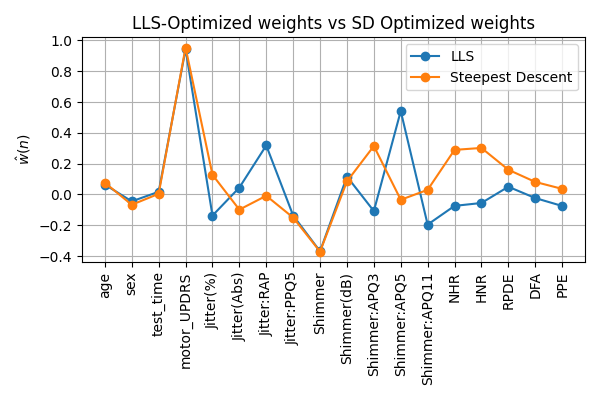
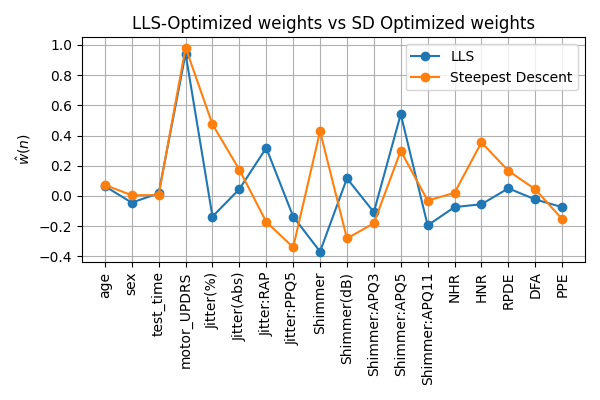
update

Changed region(s): [[0.06, 0.09, 0.96, 0.66]]

diff --git a/LAB01/parkinson.py b/LAB01/parkinson.py
@@ -1,81 +1,130 @@
-
+'''
+Federico Volponi s309709
+LABORATORIO 1 - Linear Regression on Parkinson's disease data
+17/11/2022
+'''
 import sub.regression as myreg
 import numpy as np
 import matplotlib.pyplot as plt
 import pandas as pd
 
+# Simple function to perform the average
 def average(l):
     return sum(l)/len(l)
 
-n_different_seed = 20
-x = pd.read_csv("C:\Coding\ICT_for_health\LAB01\parkinsons_updrs.csv")
+##########################################################################################
 
-#Analysis of dataframe
-x.describe().T
-x.info()
-subj = pd.unique(x['subject#']) #unique values of patient ID
-print("\nThe number of distinct patients in the dataset is ", len(subj))
+if __name__ == "__main__":
+    
+    ####################### Analysis of dataframe #########################################
+    x = pd.read_csv("C:\Coding\ICT_for_health\LAB01\parkinsons_updrs.csv")  # read the dataset
+    x.describe().T
+    print("\n")
+    x.info()
+    subj = pd.unique(x['subject#']) #unique values of patient ID
+    print("\nThe number of distinct patients in the dataset is ", len(subj))
 
-X = pd.DataFrame()
-for k in subj:
-    xk = x[x['subject#'] == k]  #data of user k
-    xk1 = xk.copy()
-    xk1.test_time = xk1.test_time.astype(int)   #remove decimal values to consider just the day and not the hour
-    xk1['g'] = xk1['test_time'] # add a new feature g with test_time values
-    v = xk1.groupby('g').mean() # group by the g features(test_time) to have averaged values per day 
-    X = pd.concat([X,v], axis=0, ignore_index=True) #Concatenate the k-patients by row ignoring index
+    X = pd.DataFrame()
+    for k in subj:
+        xk = x[x['subject#'] == k]  #data of user k
+        xk1 = xk.copy()
+        xk1.test_time = xk1.test_time.astype(int)   #remove decimal values to consider just the day and not the hour
+        xk1['g'] = xk1['test_time'] # add a new feature g with test_time values
+        v = xk1.groupby('g').mean() # group by the g features(test_time) to have averaged values per day 
+        X = pd.concat([X,v], axis=0, ignore_index=True) #Concatenate the k-patients by row ignoring index
 
-features = list(x.columns)
-print("\nThe dataset shape after the mean is: ", X.shape)
-print("\nThe features of the dataset are ", len(features))
-print("\n", features)
-print("\n\n")
-Np, Nc = X.shape
-Ntr = int(Np*0.5)
-Nte = Np - Ntr
-# Measure and show the covariance matrix
-Xnorm = (X - X.mean())/X.std() #normalize dataset
-c = Xnorm.cov() #measure the covariance
-plt.figure()
-plt.matshow(np.abs(c.values), fignum = 0)
-plt.xticks(np.arange(len(features)), features, rotation = 90)
-plt.yticks(np.arange(len(features)), features, rotation = 0)
-plt.colorbar()
-plt.title("Correlation coefficients of the features")
-plt.tight_layout()
-plt.savefig("C:\Coding\ICT_for_health\LAB01\charts\corr_coeff_features.png")
-#plt.show()
+    features = list(x.columns)
+    print("\nThe dataset shape after the mean is: ", X.shape)
+    print("\nThe features of the dataset are ", len(features))
+    print("\n", features)
+    print("\n\n")
+    Np, Nc = X.shape
+    Ntr = int(Np*0.5)
+    Nte = Np - Ntr
+    # Measure and show the covariance matrix
+    Xnorm = (X - X.mean())/X.std() #normalize dataset
+    c = Xnorm.cov() #measure the covariance
+    plt.figure()
+    plt.matshow(np.abs(c.values), fignum = 0)
+    plt.xticks(np.arange(len(features)), features, rotation = 90)
+    plt.yticks(np.arange(len(features)), features, rotation = 0)
+    plt.colorbar()
+    plt.title("Correlation coefficients of the features")
+    plt.tight_layout()
+    plt.savefig("C:\Coding\ICT_for_health\LAB01\charts\corr_coeff_features.png")
+    #plt.show()
 
-plt.figure()
-c.total_UPDRS.plot()
-plt.grid()
-plt.xticks(np.arange(len(features)), features, rotation = 90)
-plt.title("Correlation coefficient among total UPDRS and the other features")
-plt.tight_layout()
-plt.savefig("C:\Coding\ICT_for_health\LAB01\charts\corr_coeffTotal.png")
-#plt.show()
+    plt.figure()
+    c.total_UPDRS.plot()
+    plt.grid()
+    plt.xticks(np.arange(len(features)), features, rotation = 90)
+    plt.title("Correlation coefficient among total UPDRS and the other features")
+    plt.tight_layout()
+    plt.savefig("C:\Coding\ICT_for_health\LAB01\charts\corr_coeffTotal.png")
+    #plt.show()
 
-#Shuffle the data
-""" E_tr_max = []
-E_tr_min = []
-E_tr_mu = []
-E_tr_sig = []
-E_tr_MSE = []
-R2_tr = []
-c_tr = []
-E_te_max = []
-E_te_min = []
-E_te_mu = []
-E_te_sig = []
-E_te_MSE = []
-R2_te = []
-c_te = []
-algorithm = "LR"
-for i in range(n_different_seed):
-    seed = np.random.seed()
-    Xsh = X.sample(frac=1, replace=False, random_state=seed, axis=0, ignore_index=True)
+    #Shuffle the data
 
+    n_different_seed = 20
+    results_LLS = []
+    results_SD = []
+    results_LR = []
+    for i in range(n_different_seed):
+        seed = np.random.seed()
+        Xsh = X.sample(frac=1, replace=False, random_state=seed, axis=0, ignore_index=True)
+
+        # Generate training and test matrices
+        X_tr = Xsh[0:Ntr]   #dataframe of the training data
+        mm = X_tr.mean()
+        ss = X_tr.std()
+        my = mm['total_UPDRS']  #mean of total_UPDRS
+        sy = ss['total_UPDRS']  #st. dev. of total UPDRS
+
+        # Generate the normalized training and test datasets, remove unwanted regressors
+        Xsh_norm=(Xsh-mm)/ss  #normalized data
+        ysh_norm=Xsh_norm['total_UPDRS']  #regressand only
+        Xsh_norm=Xsh_norm.drop(['total_UPDRS','subject#'],axis=1) #regressors only
+
+        #LLS regression
+        #All the features
+        #Excluding Jitter:DDP and Shimmer:DDA
+        Xsh_norm=Xsh_norm.drop(['Jitter:DDP', 'Shimmer:DDA'],axis=1)
+        R1 = myreg.regression(Xsh_norm, ysh_norm, Ntr, sy, my)
+
+        R1.LLS()
+        R1.steepestDescent()
+        R1.localRegression(100)
+        R1.denormalize()
+        results_LLS.append(R1.errorsAndCoefficients(algorithm="LLS"))
+        results_LR.append(R1.errorsAndCoefficients(algorithm="LR"))
+        results_SD.append(R1.errorsAndCoefficients(algorithm="SD"))
+        
+
+    sum_LR = np.zeros((results_LR[0].shape)) #shape of one dataframe
+    sum_LLS = np.zeros((results_LLS[0].shape))
+    sum_SD = np.zeros((results_SD[0].shape))
+    for i in range(n_different_seed):
+        sum_LR += results_LR[i].values
+        sum_LLS += results_LLS[i].values
+        sum_SD += results_SD[i].values
+    cols=['min','max','mean','std','MSE','R^2','corr_coeff']
+    rows=['Training','test']
+    results_LR=pd.DataFrame(sum_LR / n_different_seed,columns=cols,index=rows)
+    results_LLS=pd.DataFrame(sum_LLS / n_different_seed,columns=cols,index=rows)
+    results_SD=pd.DataFrame(sum_SD / n_different_seed,columns=cols,index=rows)
+    print("\nLLS error table - averaged results on 20 seeds")
+    print(results_LLS)
+    print("\nSD error table - averaged results on 20 seeds")
+    print(results_SD)
+    print("\nLLR error table - averaged results on 20 seeds")
+    print(results_LR)
+
+
+
+    Xsh = X.sample(frac=1, replace=False, random_state=309709, axis=0, ignore_index=True)
     # Generate training and test matrices
+    Ntr = int(Np*0.5)
+    Nte = Np - Ntr
     X_tr = Xsh[0:Ntr]   #dataframe of the training data
     mm = X_tr.mean()
     ss = X_tr.std()
@@ -91,90 +140,19 @@ for i in range(n_different_seed):
     #All the features
     #Excluding Jitter:DDP and Shimmer:DDA
     Xsh_norm=Xsh_norm.drop(['Jitter:DDP', 'Shimmer:DDA'],axis=1)
-    r2 = myreg.regression(Xsh_norm, ysh_norm, Ntr, sy, my)
-    if algorithm == "LLS":
-        r2.LLS()
-        r2.denormalize()
-        r2.denormalize(algorithm="LLS")
-        r2.errorsAndCoefficients(algorithm="LLS")
-    
-    if algorithm == "SD":
-        r2.steepestDescent()
-        r2.denormalize()
-        r2.denormalize(algorithm="SD")
-        r2.errorsAndCoefficients(algorithm="SD")
-        
-    
-    if algorithm == "LR":
-        r2.localRegression(100)
-        r2.denormalize()
-        r2.denormalize(algorithm="LR")
-        r2.errorsAndCoefficients(algorithm="LR")
-    
-    E_tr_max.append(r2.E_tr_max)
-    E_tr_min.append(r2.E_tr_min)
-    E_tr_mu.append(r2.E_tr_mu)
-    E_tr_sig.append(r2.E_tr_sig)
-    E_tr_MSE.append(r2.E_tr_MSE)
-    R2_tr.append(r2.R2_tr)
-    c_tr.append(r2.c_tr)
-    E_te_max.append(r2.E_te_max)
-    E_te_min.append(r2.E_te_min)
-    E_te_mu.append(r2.E_te_mu)
-    E_te_sig.append(r2.E_te_sig)
-    E_te_MSE.append(r2.E_te_MSE)
-    R2_te.append(r2.R2_te)
-    c_te.append(r2.c_te)
+    R1 = myreg.regression(Xsh_norm, ysh_norm, Ntr, sy, my)
+    R1.localRegression(100)
+    R1.LLS()
+    R1.steepestDescent()
+    R1.plot_LLS_vs_SD()
+    R1.denormalize()
 
-cols=['min','max','mean','std','MSE','R^2','corr_coeff']
-rows=['Training','test']
-p=np.array([
-    [average(E_tr_min),average(E_tr_max),average(E_tr_mu),average(E_tr_sig),average(E_tr_MSE),average(R2_tr),average(c_tr)],
-    [average(E_te_min),average(E_te_max),average(E_te_mu),average(E_te_sig),average(E_te_MSE),average(R2_te),average(c_te)],
-            ])
-
-results=pd.DataFrame(p,columns=cols,index=rows)
-print(results, "\n\n")
- """
-
-
-
-Xsh = X.sample(frac=1, replace=False, random_state=309709, axis=0, ignore_index=True)
-# Generate training and test matrices
-Ntr = int(Np*0.5)
-Nte = Np - Ntr
-X_tr = Xsh[0:Ntr]   #dataframe of the training data
-mm = X_tr.mean()
-ss = X_tr.std()
-my = mm['total_UPDRS']  #mean of total_UPDRS
-sy = ss['total_UPDRS']  #st. dev. of total UPDRS
-
-# Generate the normalized training and test datasets, remove unwanted regressors
-Xsh_norm=(Xsh-mm)/ss  #normalized data
-ysh_norm=Xsh_norm['total_UPDRS']  #regressand only
-Xsh_norm=Xsh_norm.drop(['total_UPDRS','subject#'],axis=1) #regressors only
-
-#LLS regression
-#All the features
-#Excluding Jitter:DDP and Shimmer:DDA
-Xsh_norm=Xsh_norm.drop(['Jitter:DDP', 'Shimmer:DDA'],axis=1)
-r2 = myreg.regression(Xsh_norm, ysh_norm, Ntr, sy, my)
-r2.localRegression(100)
-r2.LLS()
-r2.steepestDescent()
-r2.plot_LLS_vs_SD()
-r2.denormalize()
-r2.denormalize(algorithm="LLS")
-r2.denormalize(algorithm="SD")
-r2.denormalize(algorithm="LR")
-r2.plotRegressionLine(title="regressionline_LLS", algorithm="LLS")
-r2.plotRegressionLine(title="regressionline_SD", algorithm="SD")
-r2.plotRegressionLine(title="regressionline_LR", algorithm="LR")
-r2.plotHistrogram(title="LLS-Error", algorithm="LLS")
-r2.plotHistrogram(title="SD-Error", algorithm="SD")
-r2.plotHistrogram(title="LR-Error", algorithm="LR")
-r2.errorsAndCoefficients(algorithm="LLS", toPrint=True)
-r2.errorsAndCoefficients(algorithm="SD", toPrint=True)
-r2.errorsAndCoefficients(algorithm="LR", toPrint=True)
-
- 
+    R1.plotRegressionLine(title="regressionline_LLS", algorithm="LLS")
+    R1.plotRegressionLine(title="regressionline_SD", algorithm="SD")
+    R1.plotRegressionLine(title="regressionline_LR", algorithm="LR")
+    R1.plotHistrogram(title="LLS-Error", algorithm="LLS")
+    R1.plotHistrogram(title="SD-Error", algorithm="SD")
+    R1.plotHistrogram(title="LR-Error", algorithm="LR")
+    R1.errorsAndCoefficients(algorithm="LLS", toPrint=True)
+    R1.errorsAndCoefficients(algorithm="SD", toPrint=True)
+    R1.errorsAndCoefficients(algorithm="LR", toPrint=True)

diff --git a/LAB01/sub/regression.py b/LAB01/sub/regression.py
@@ -109,18 +109,18 @@ class regression:
         #plt.show()
 
     def denormalize(self, algorithm = "Default"):
-        if algorithm == "LLS":
-            self.y_hat_te_LLS = self.y_hat_te_LLS * self.sy + self.my
-            self.y_hat_tr_LLS = self.y_hat_tr_LLS * self.sy + self.my
-        elif algorithm == "SD":
-            self.y_hat_te_SD = self.y_hat_te_SD * self.sy + self.my
-            self.y_hat_tr_SD = self.y_hat_tr_SD * self.sy + self.my
-        elif algorithm == "LR":
-            self.y_hat_te_LR = self.y_hat_te_LR * self.sy + self.my
-            self.y_hat_tr_LR = self.y_hat_tr_LR * self.sy + self.my
-        else:
-            self.y_te = self.y_te * self.sy + self.my
-            self.y_tr = self.y_tr * self.sy + self.my
+    
+        self.y_hat_te_LLS = self.y_hat_te_LLS * self.sy + self.my
+        self.y_hat_tr_LLS = self.y_hat_tr_LLS * self.sy + self.my
+    
+        self.y_hat_te_SD = self.y_hat_te_SD * self.sy + self.my
+        self.y_hat_tr_SD = self.y_hat_tr_SD * self.sy + self.my
+    
+        self.y_hat_te_LR = self.y_hat_te_LR * self.sy + self.my
+        self.y_hat_tr_LR = self.y_hat_tr_LR * self.sy + self.my
+    
+        self.y_te = self.y_te * self.sy + self.my
+        self.y_tr = self.y_tr * self.sy + self.my
 
     def errorsAndCoefficients(self, algorithm = "LLS", toPrint = False):
         y_tr = self.y_tr
@@ -157,17 +157,19 @@ class regression:
         self.E_te_MSE=np.mean(self.E_te**2)
         self.R2_te=1-self.E_te_MSE/(np.std(y_te)**2)
         self.c_te=np.mean((y_te.reshape(len(y_tr),1)- y_te.reshape(len(y_tr),1).mean())*(y_hat_te.reshape(len(y_tr),1)-y_hat_te.reshape(len(y_tr),1).mean()))/(y_te.reshape(len(y_tr),1).std()*y_hat_te.reshape(len(y_tr),1).std())
+        
+        
+        cols=['min','max','mean','std','MSE','R^2','corr_coeff']
+        rows=['Training','test']
+        p=np.array([
+            [self.E_tr_min,self.E_tr_max,self.E_tr_mu,self.E_tr_sig,self.E_tr_MSE,self.R2_tr,self.c_tr],
+            [self.E_te_min,self.E_te_max,self.E_te_mu,self.E_te_sig,self.E_te_MSE,self.R2_te,self.c_te],
+                    ])
 
+        results=pd.DataFrame(p,columns=cols,index=rows)
         if toPrint:
-            cols=['min','max','mean','std','MSE','R^2','corr_coeff']
-            rows=['Training','test']
-            p=np.array([
-                [self.E_tr_min,self.E_tr_max,self.E_tr_mu,self.E_tr_sig,self.E_tr_MSE,self.R2_tr,self.c_tr],
-                [self.E_te_min,self.E_te_max,self.E_te_mu,self.E_te_sig,self.E_te_MSE,self.R2_te,self.c_te],
-                        ])
-
-            results=pd.DataFrame(p,columns=cols,index=rows)
             print(results, "\n\n")
+        return results
 
     def localRegression(self, N):
         y_hat_te = np.zeros([self.Nte, 1])
